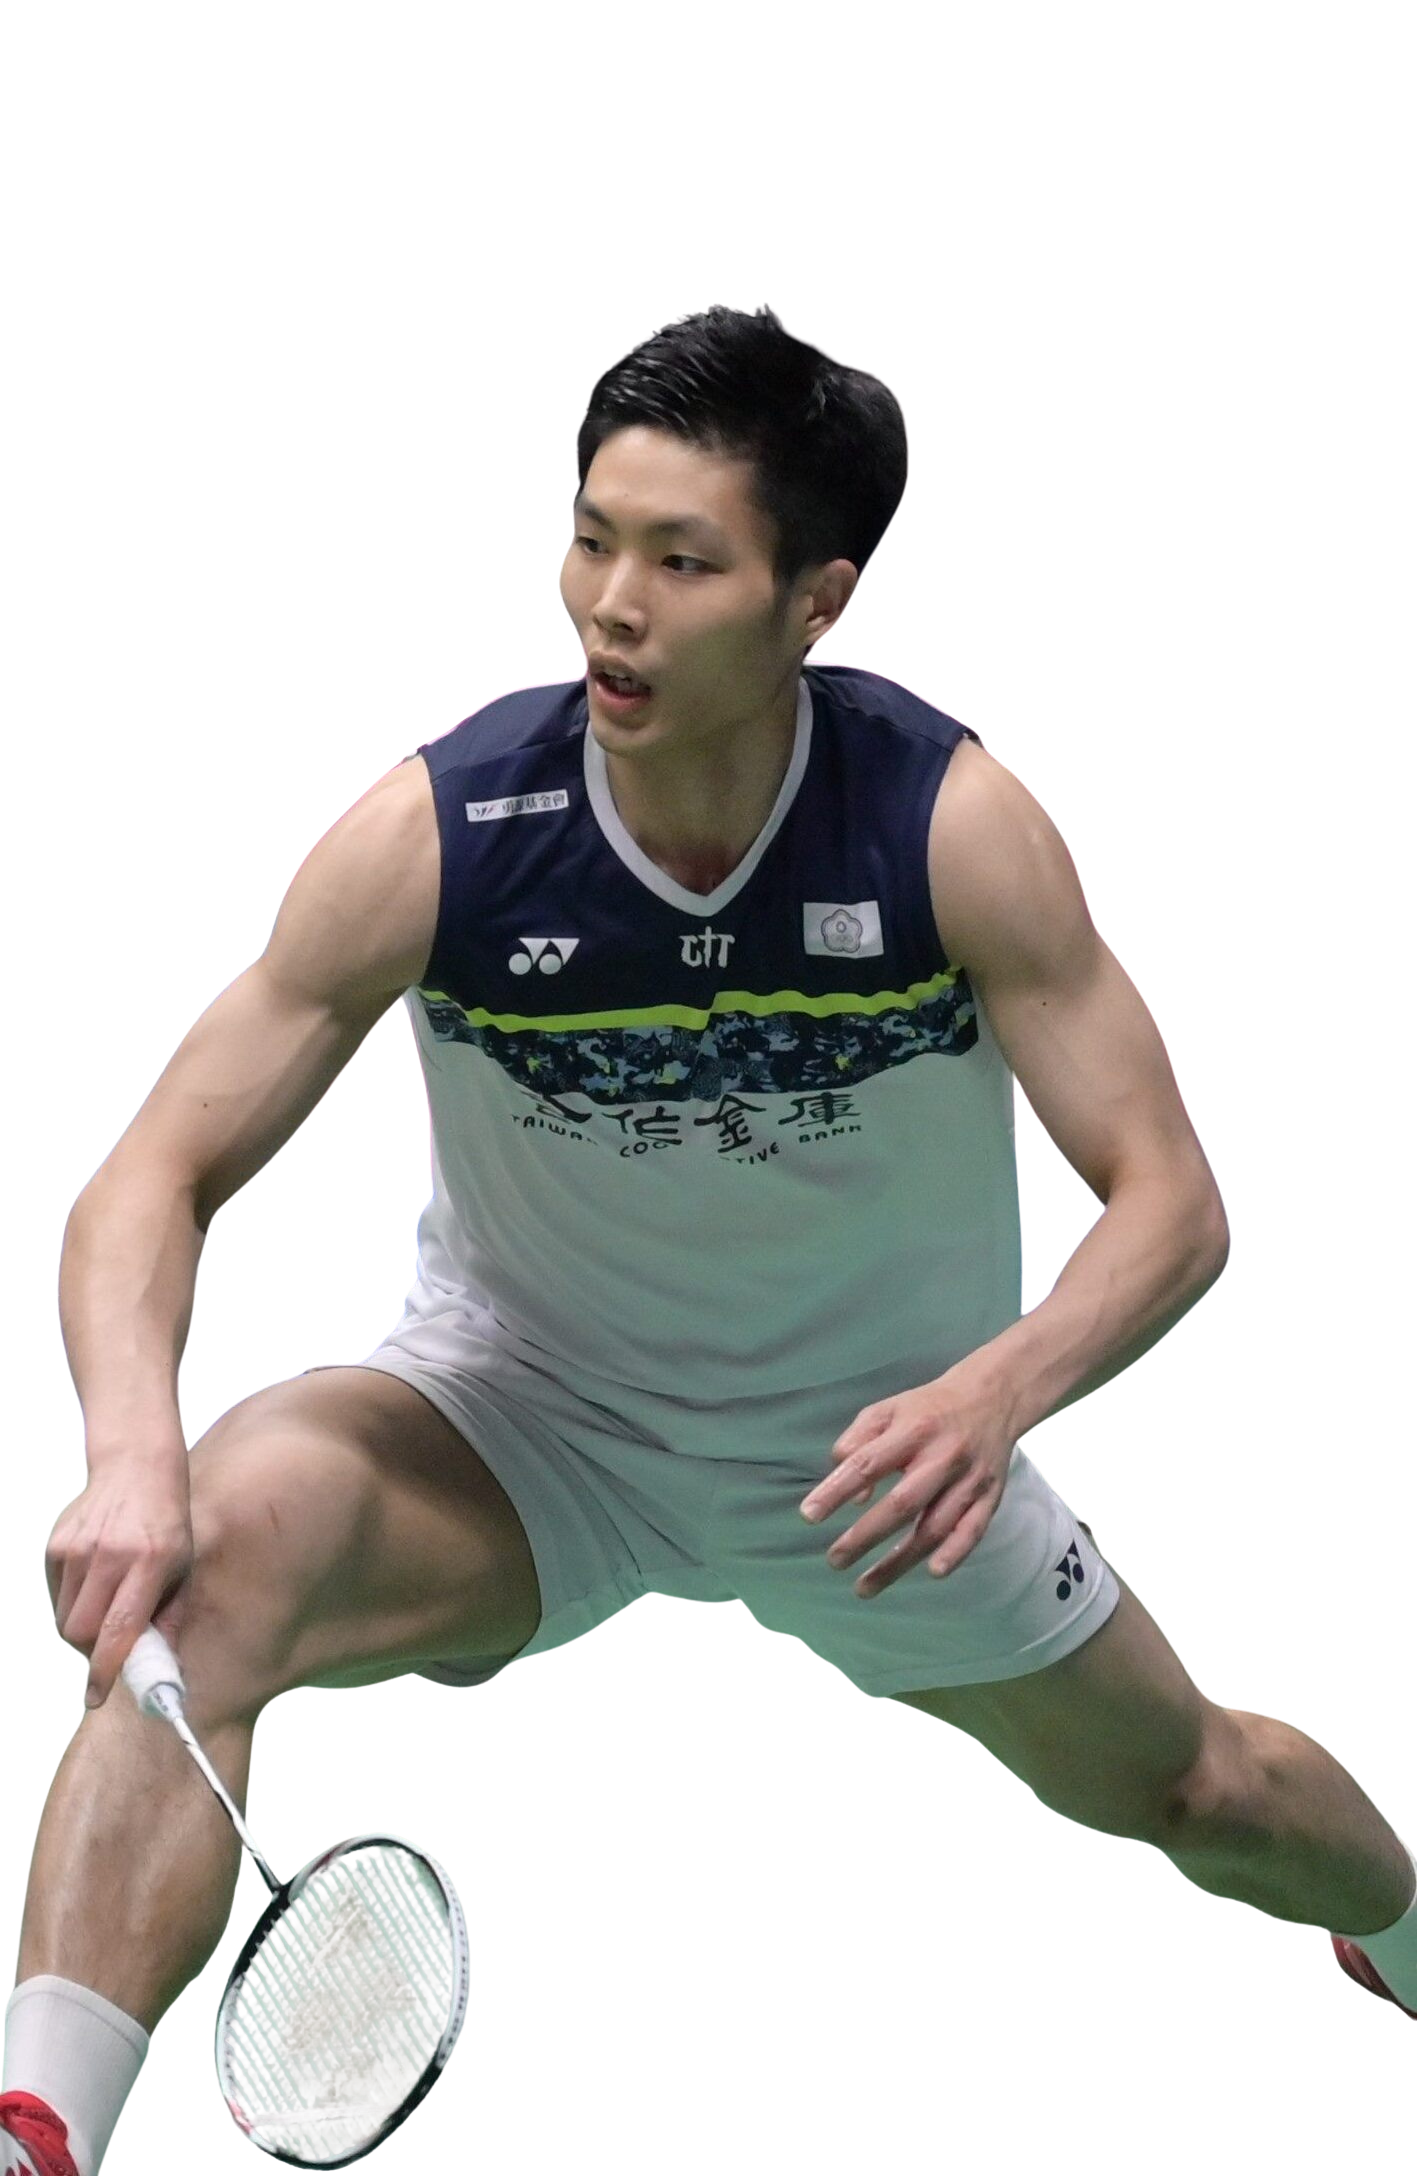
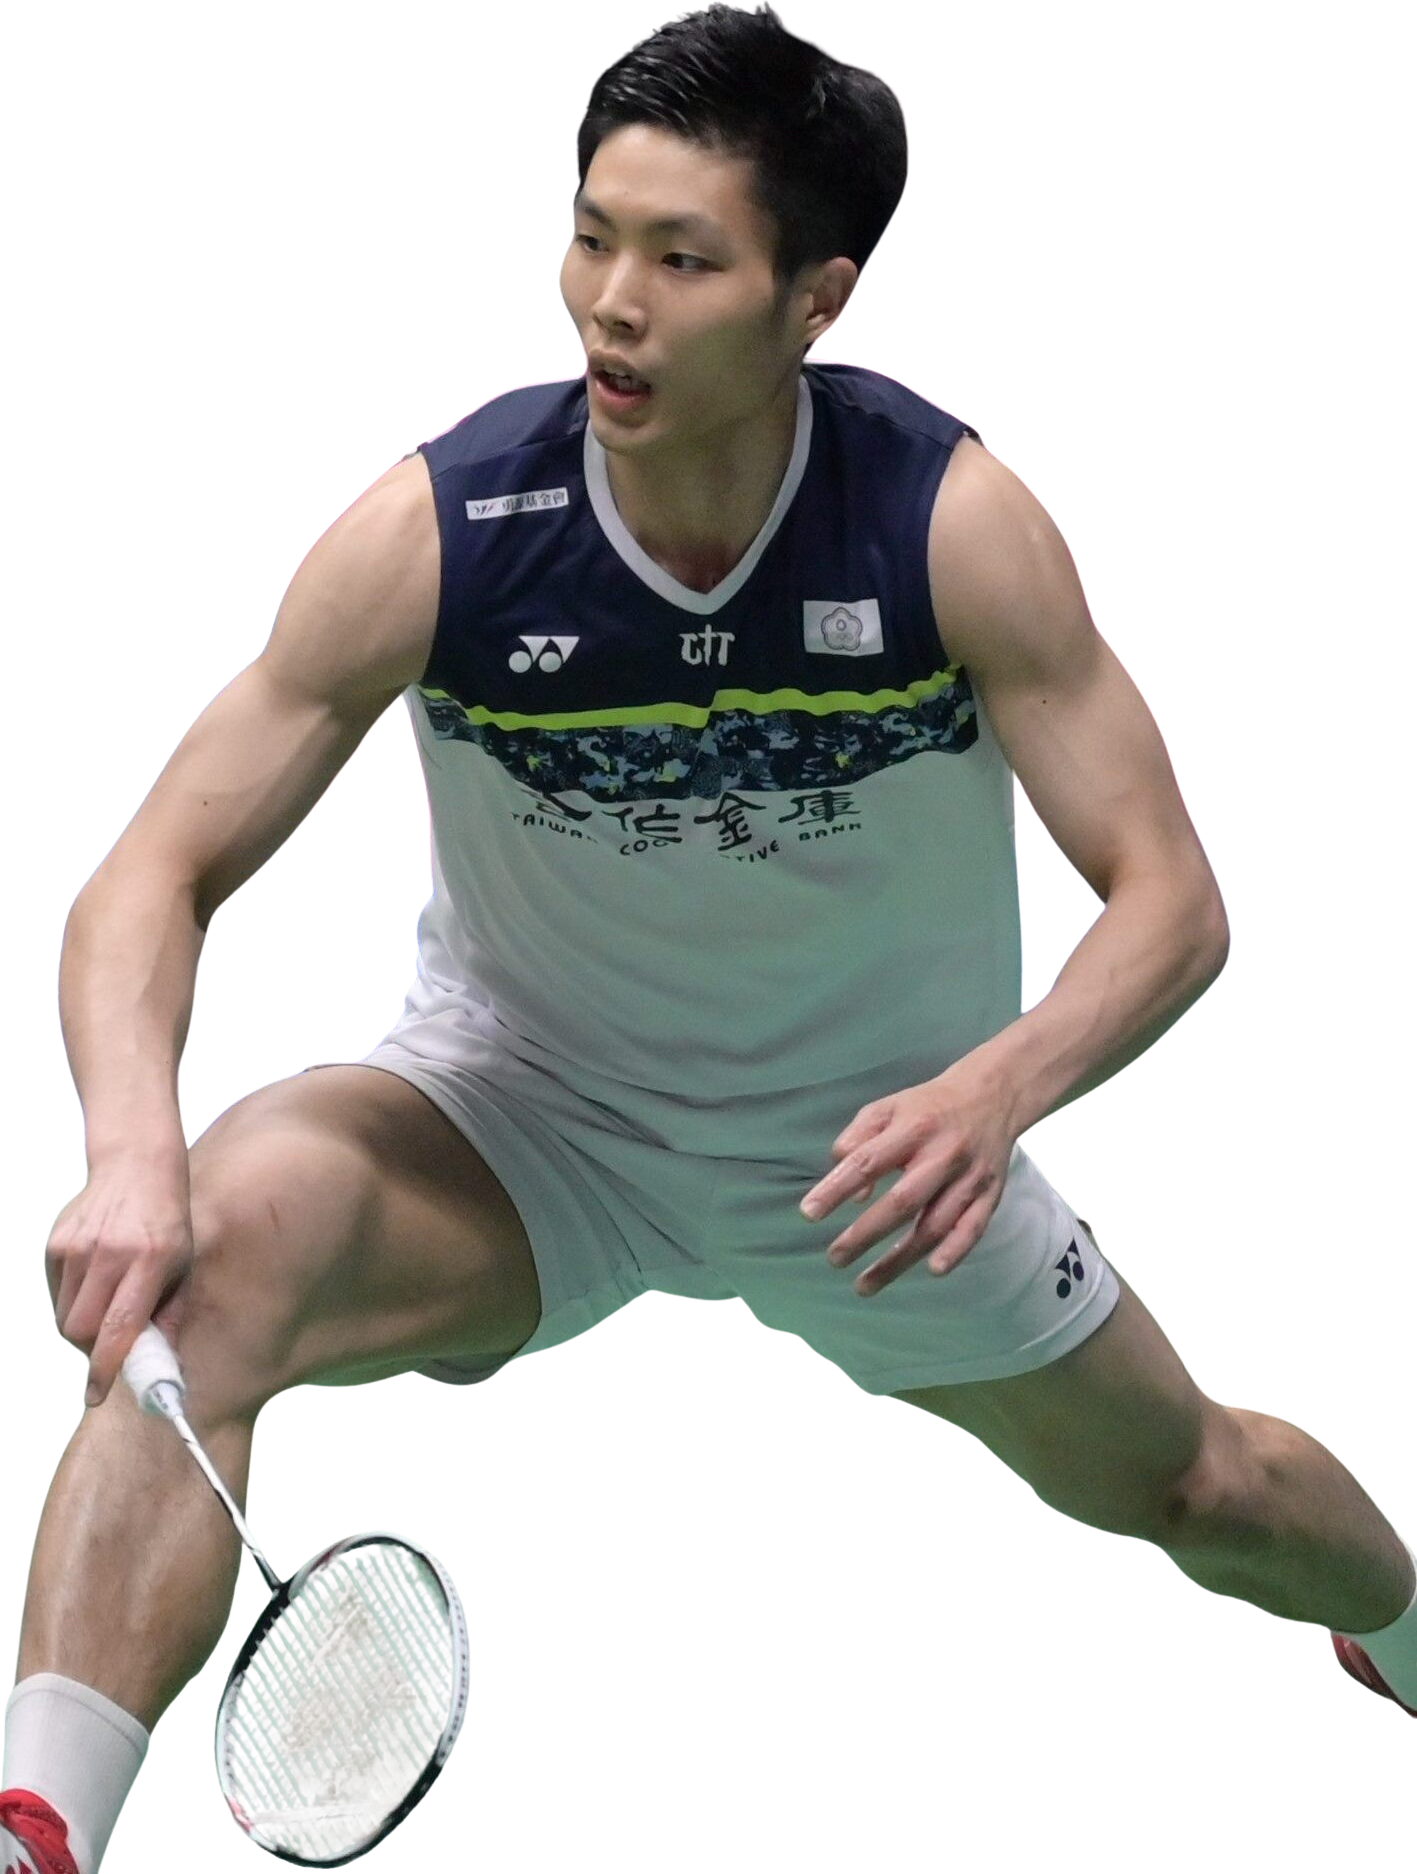
Hero: trim player cutouts, size by height, new court background
Root cause of the "some players are tiny / invisible" problem: the cutouts
range from portrait (ready, subject AR 0.56) to landscape (cheer 1.27, medal
1.23, lunge 1.01), but .rise sized them by width. A shared width gives a wide
subject a short height, so the three landscape players rendered small.

- Trim all six PNGs to their alpha bounding box. They carried up to 309px of
  transparent padding (medal), which both shrank the visible subject and
  offset it from the positioning anchor. Every file now fills 100% of its
  canvas, so --x/--h map directly to what you see.
- Size .rise by height (--h) instead of width, so all figures share a visual
  scale regardless of aspect ratio.
- Re-place all six. At the old sizes the figures totaled ~153vw of width in a
  100vw strip, so several were painted over completely. New values verified to
  leave each player a 10-29vw visible band at 1440x900, 1600x1000 and 1920x1080.
- Swap hero background to the illuminated court image.

diff --git a/index.html b/index.html
@@ -61,24 +61,26 @@
           </svg>
         </div>
 
-        <!-- six rising player cutouts (back-to-front DOM order) -->
+        <!-- Six rising player cutouts, back-to-front in DOM order.
+             --h is the figure's height (cutouts are height-sized, see .rise);
+             --z:1,2 sit behind the title, --z:3 overlaps its edges. -->
         <div class="hero__players">
-          <figure class="rise rise--L" style="--x:10vw;--w:26vw;--b:-5%;--z:1">
-            <img class="js-cutout" data-src="./img/players/ready.png" alt="Player with racket ready" />
-          </figure>
-          <figure class="rise rise--R" style="--x:12vw;--w:24vw;--b:-6%;--z:1">
-            <img class="js-cutout" data-src="./img/players/medal.png" alt="Badminton player with medal" />
-          </figure>
-          <figure class="rise rise--L" style="--x:20vw;--w:22vw;--b:-8%;--z:2">
+          <figure class="rise rise--L" style="--x:33vw;--h:30vh;--b:0%;--z:1">
             <img class="js-cutout" data-src="./img/players/cheer.png" alt="Player celebrating" />
           </figure>
-          <figure class="rise rise--R" style="--x:18vw;--w:23vw;--b:-8%;--z:2">
+          <figure class="rise rise--R" style="--x:30vw;--h:32vh;--b:0%;--z:1">
             <img class="js-cutout" data-src="./img/players/lunge.png" alt="Player in action" />
           </figure>
-          <figure class="rise rise--L" style="--x:0vw;--w:34vw;--b:-12%;--z:3">
+          <figure class="rise rise--L" style="--x:22vw;--h:50vh;--b:0%;--z:2">
+            <img class="js-cutout" data-src="./img/players/ready.png" alt="Player with racket ready" />
+          </figure>
+          <figure class="rise rise--R" style="--x:12vw;--h:34vh;--b:0%;--z:2">
+            <img class="js-cutout" data-src="./img/players/medal.png" alt="Badminton player with medal" />
+          </figure>
+          <figure class="rise rise--L" style="--x:-3vw;--h:68vh;--b:-2%;--z:3">
             <img class="js-cutout" data-src="./img/players/smash.png" alt="Player smashing" />
           </figure>
-          <figure class="rise rise--R" style="--x:-2vw;--w:32vw;--b:-10%;--z:3">
+          <figure class="rise rise--R" style="--x:-3vw;--h:62vh;--b:-2%;--z:3">
             <img class="js-cutout" data-src="./img/players/stand.png" alt="Player standing" />
           </figure>
         </div>

diff --git a/src/styles/main.css b/src/styles/main.css
@@ -227,7 +227,7 @@ body.is-page .island { transform: translateX(-50%) translateY(0); } /* always sh
 
 .hero__court { position: absolute; inset: 0; z-index: 1;
   background: linear-gradient(135deg, rgba(0,0,0,0.4), rgba(0,0,0,0.2)),
-              url(/img/fortius/courts-12.jpg) center center/cover no-repeat;
+              url(/img/fortius/court-hero.jpg) center center/cover no-repeat;
   filter: brightness(0.8) contrast(1.1) saturate(1.3); }
 .hero__court svg { width: 100%; height: 100%; display: block;
   filter: drop-shadow(0 0 90px rgba(36, 170, 85, 0.22)); opacity: 0; }
@@ -241,10 +241,12 @@ body.is-page .island { transform: translateX(-50%) translateY(0); } /* always sh
   color: var(--court-bright); text-shadow: none; margin-top: 1.5rem; padding-left: 0.5em; }
 
 .hero__players { position: absolute; inset: 0; pointer-events: none; }
-.rise { position: absolute; bottom: var(--b, 0%); width: var(--w, 30vw); z-index: var(--z, 2);
-  filter: drop-shadow(0 20px 50px rgba(0,0,0,0.8)); will-change: transform, opacity;
-  display: flex; align-items: flex-end; justify-content: center; }
-.rise img { width: auto; max-width: 100%; max-height: 82vh; height: auto; display: block; }
+/* Players are sized by HEIGHT, not width: the cutouts range from portrait
+   (ready, AR 0.56) to landscape (cheer, AR 1.27), so a shared width makes the
+   wide ones render short. Height keeps every figure the same visual scale. */
+.rise { position: absolute; bottom: var(--b, 0%); height: var(--h, 55vh); z-index: var(--z, 2);
+  filter: drop-shadow(0 20px 50px rgba(0,0,0,0.8)); will-change: transform, opacity; }
+.rise img { height: 100%; width: auto; display: block; }
 .rise--L { left: var(--x, 0); }
 .rise--R { right: var(--x, 0); }
 
@@ -259,7 +261,7 @@ body.is-page .island { transform: translateX(-50%) translateY(0); } /* always sh
 
 @media (max-width: 760px) {
   .hero { height: 240vh; }
-  .rise { width: calc(var(--w, 30vw) * 1.55); filter: drop-shadow(0 20px 40px rgba(0,0,0,0.6)); }
+  .rise { height: calc(var(--h, 55vh) * 0.72); filter: drop-shadow(0 20px 40px rgba(0,0,0,0.6)); }
 }
 
 /* ============================================================
